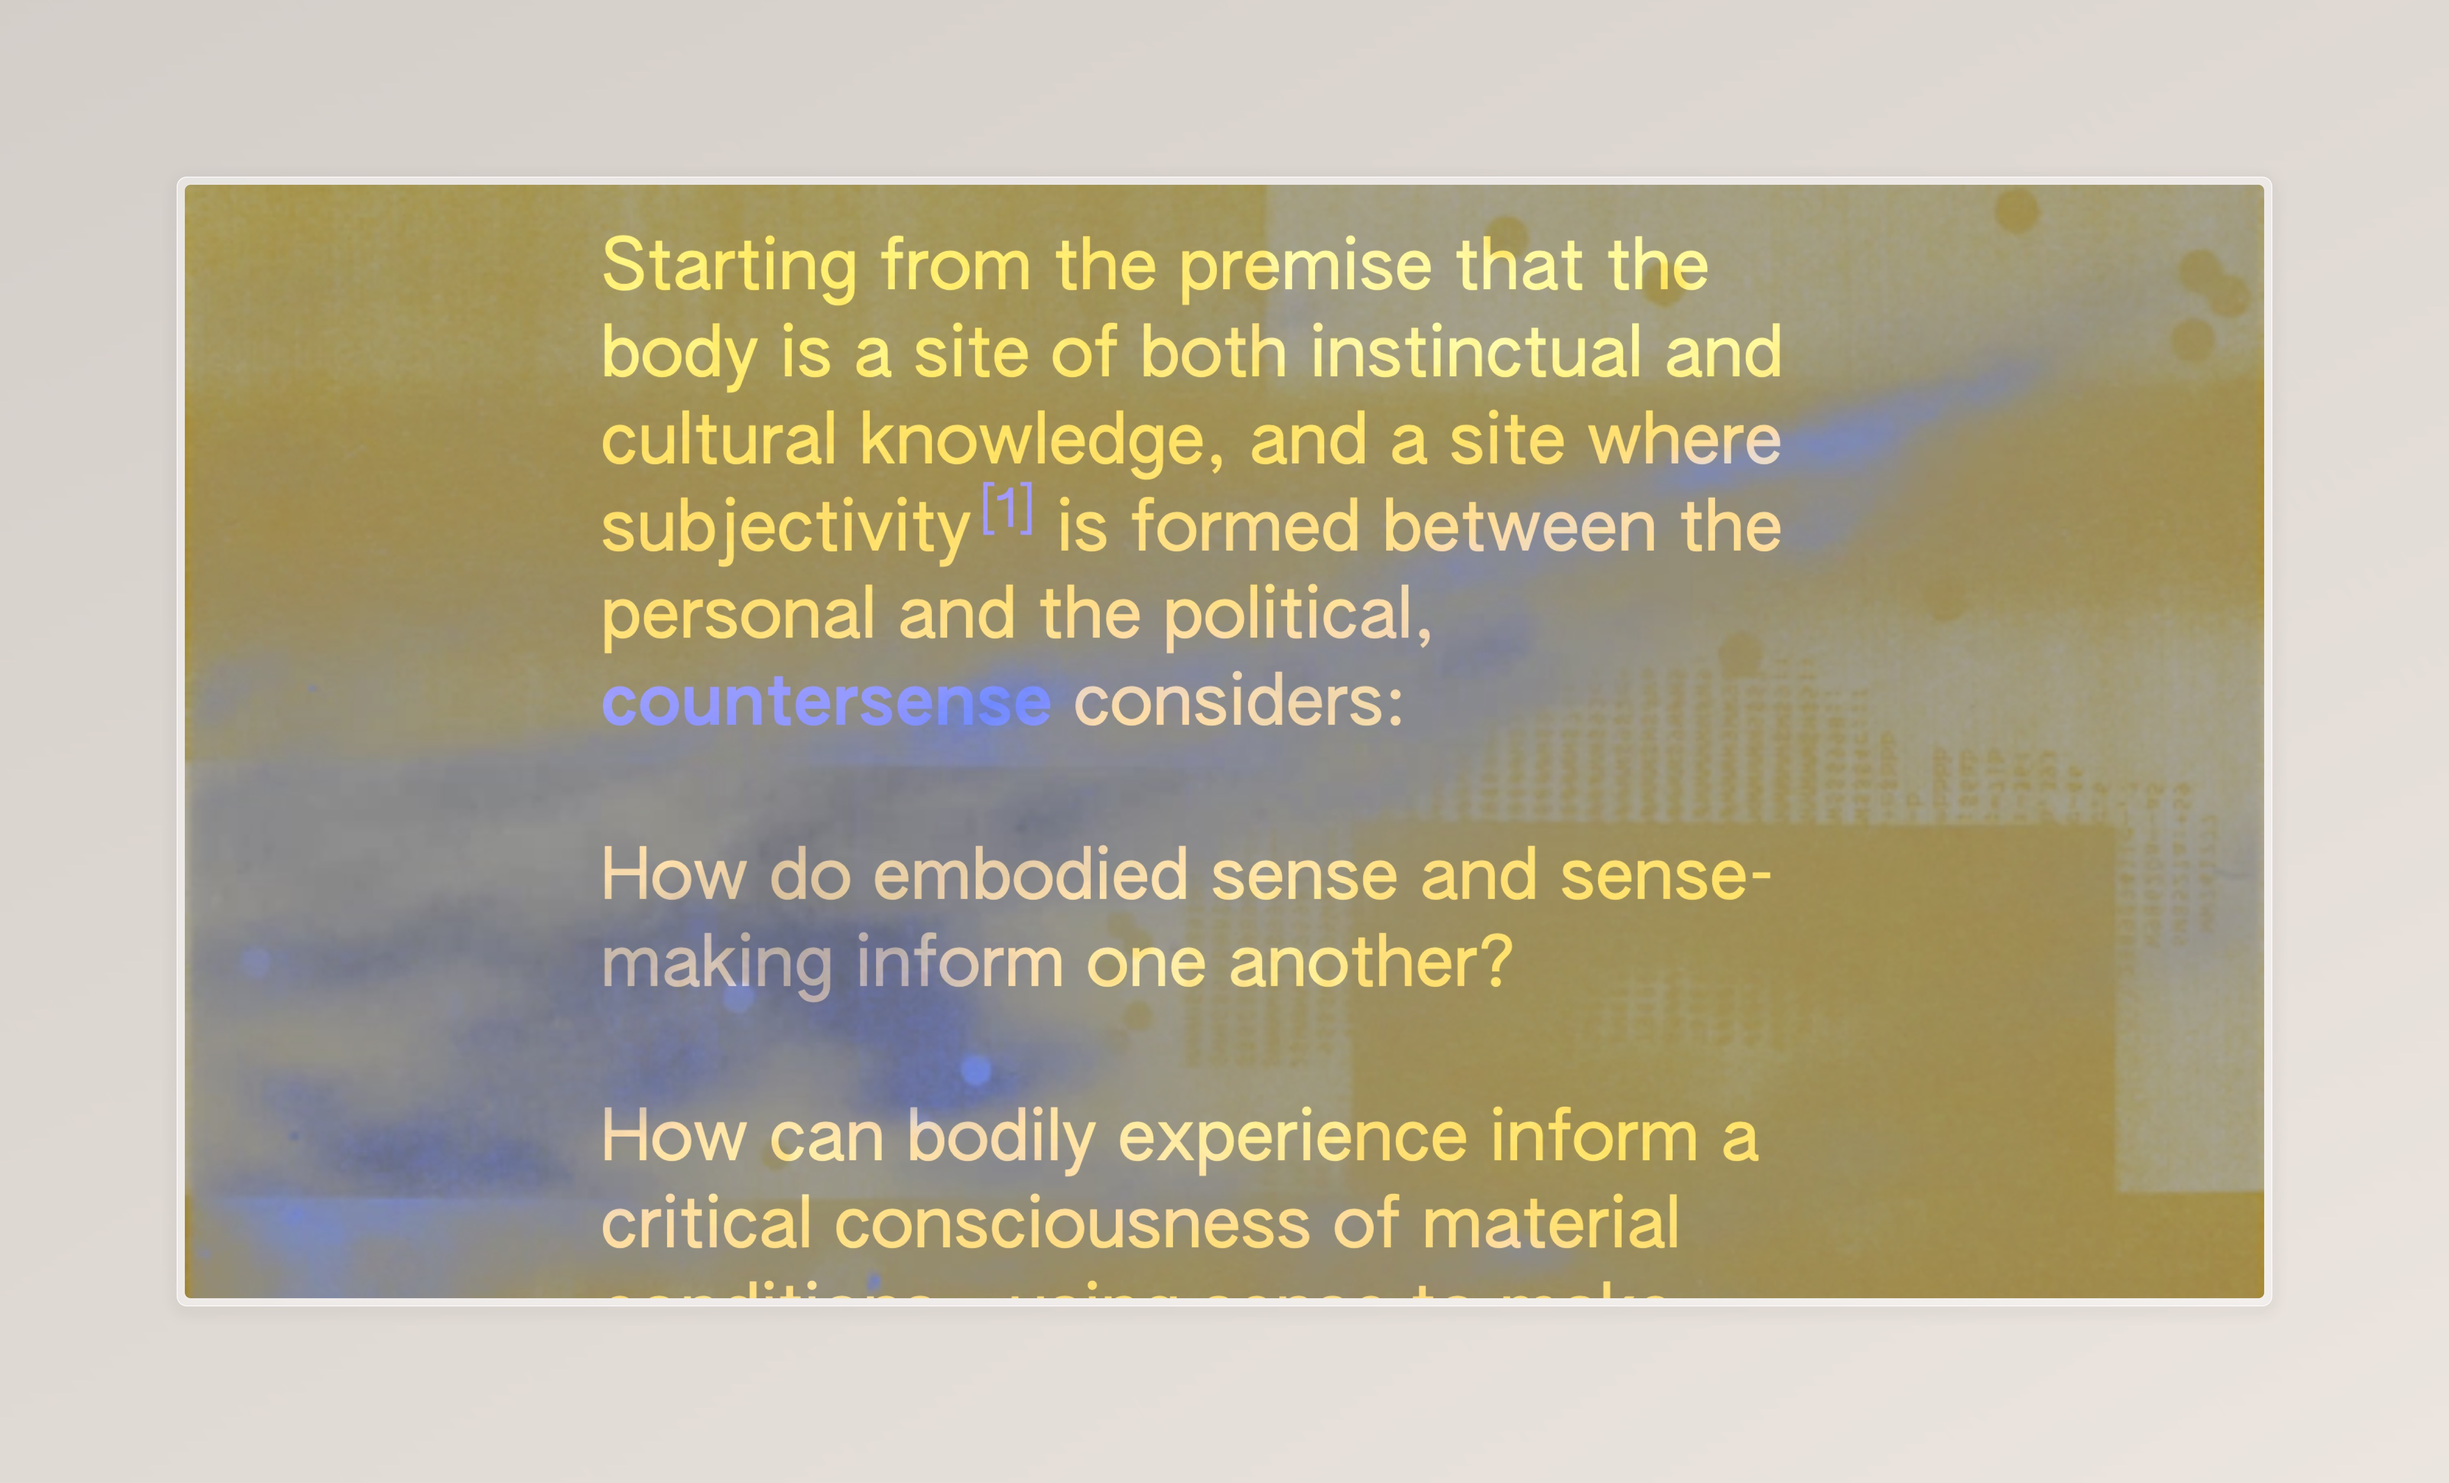
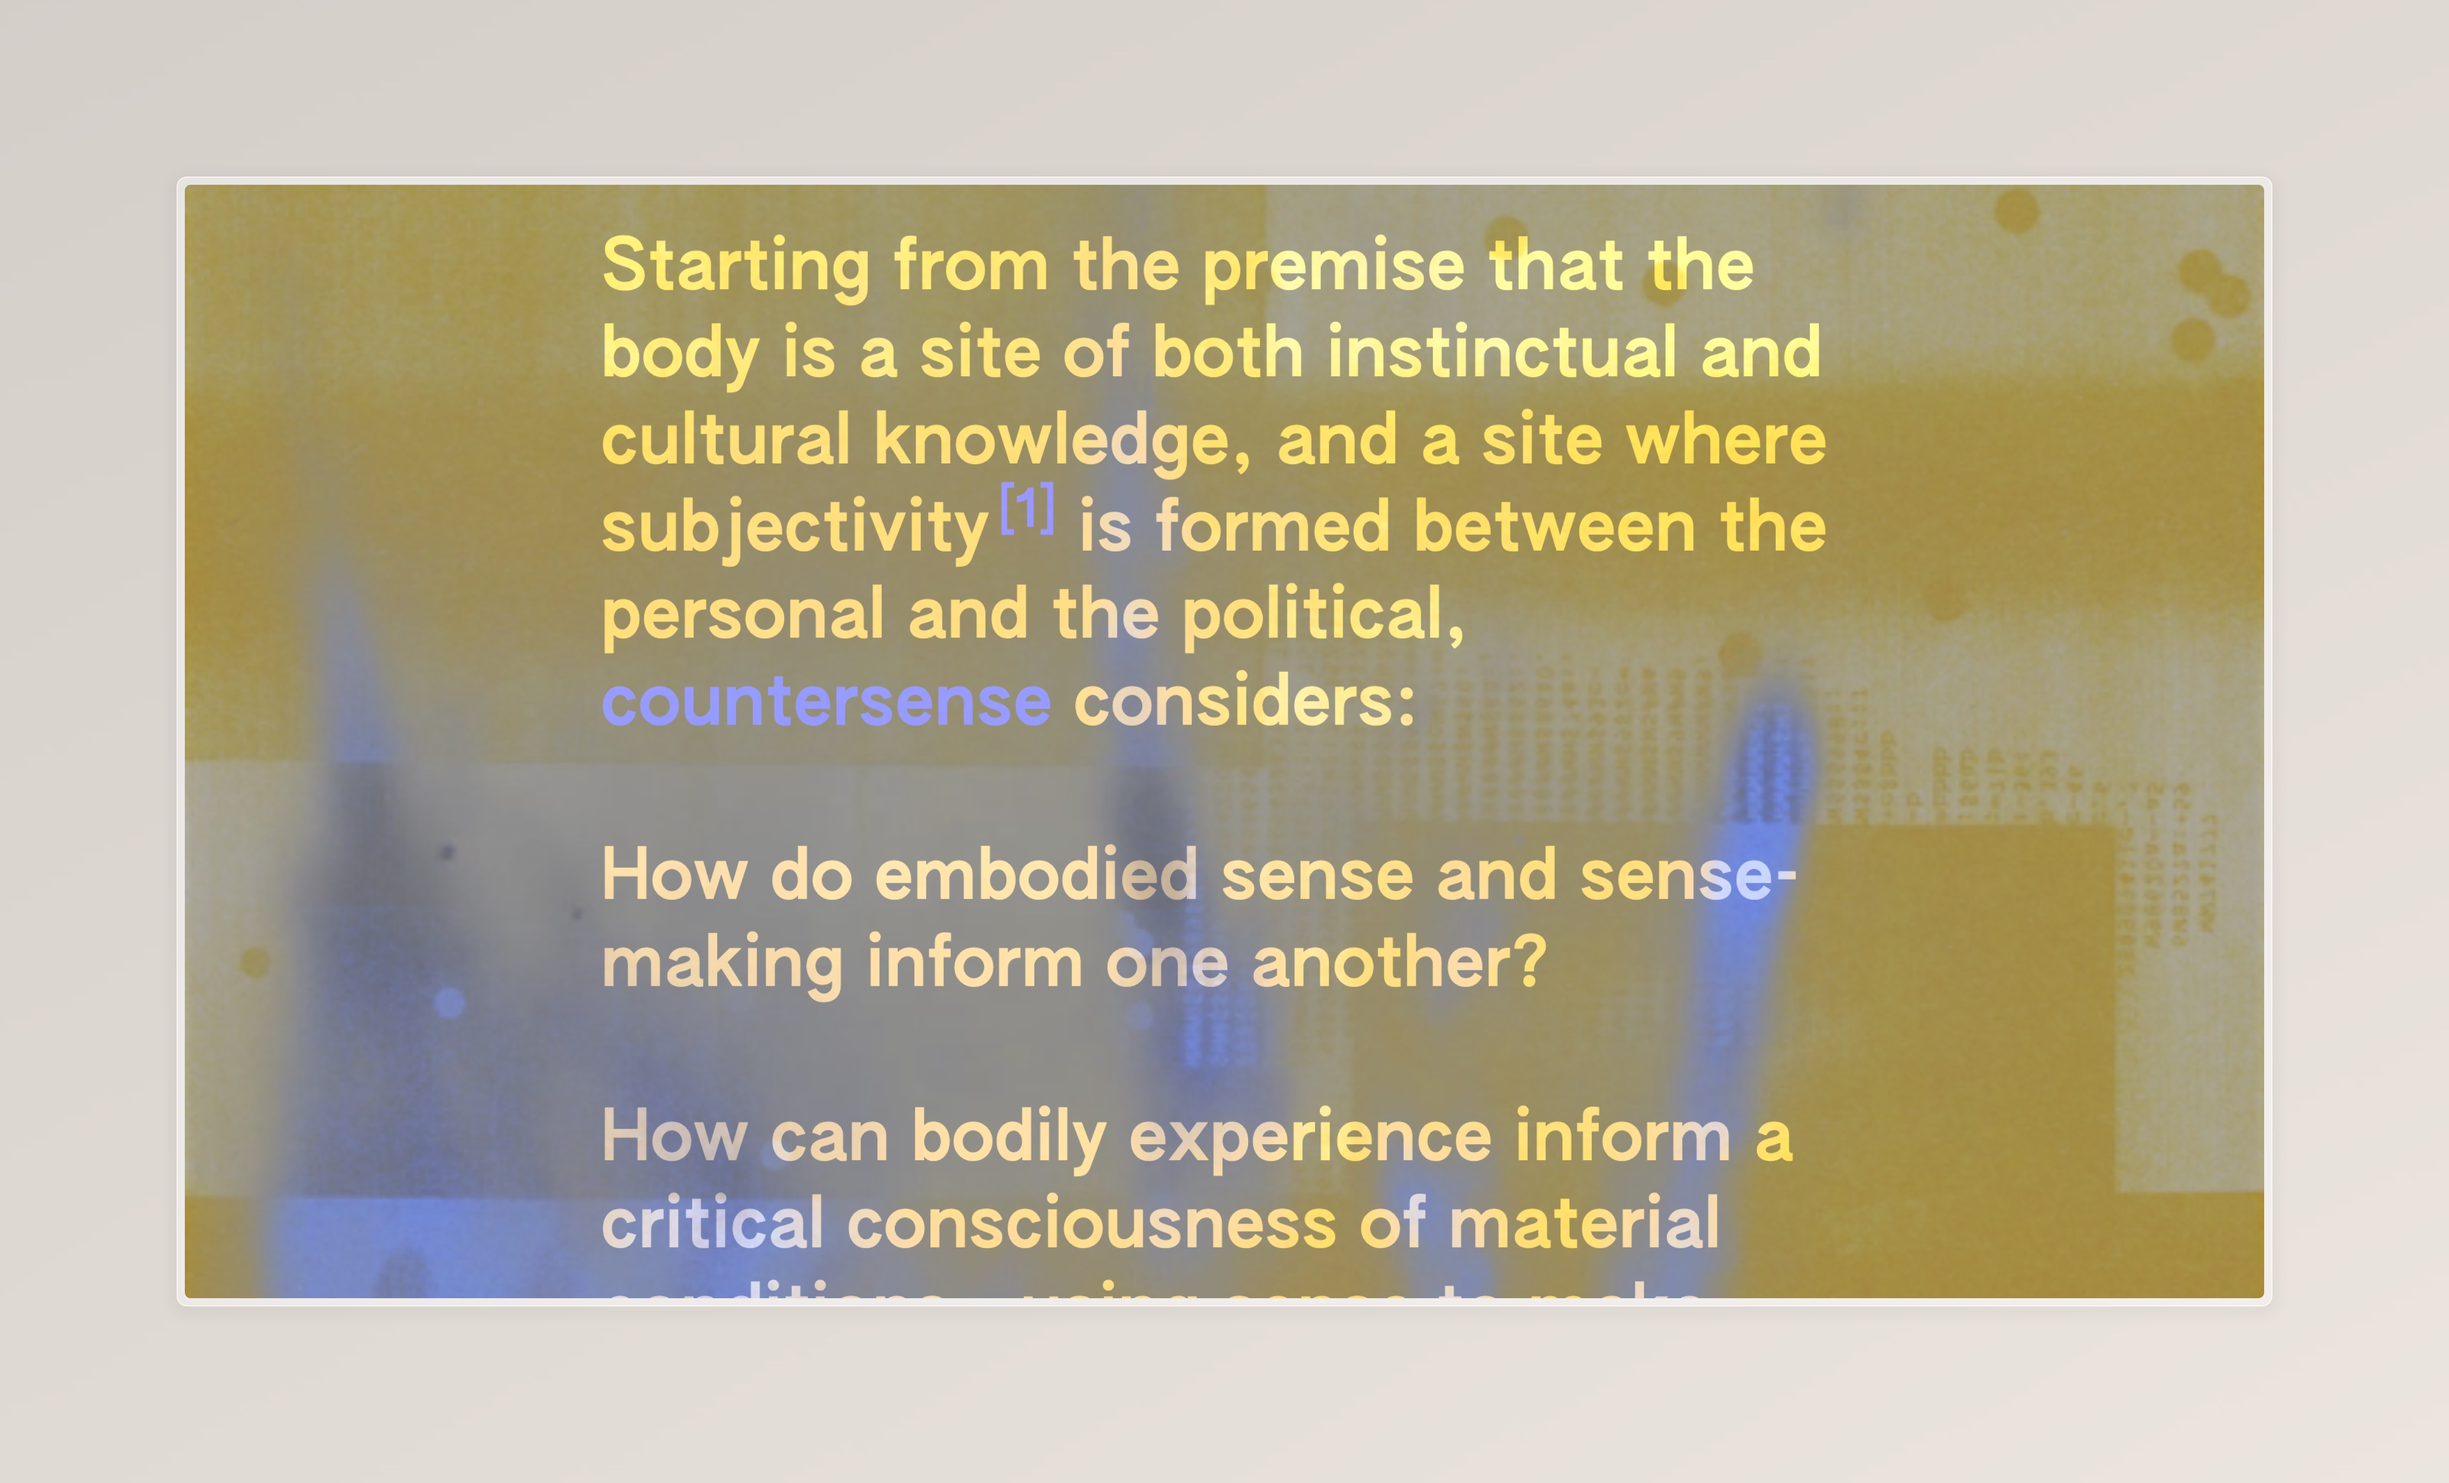
ok

diff --git a/countersense.html b/countersense.html
@@ -43,6 +43,7 @@
             <img src="./resources/portfolio page images/closeup cover.png">
             <img src="./resources/portfolio page images/binding.png">
             <img src="./resources/portfolio page images/countersense.world.jpeg">
+            <img src="./resources/portfolio page images/countersense bibliography.jpeg">
             <img src="./resources/portfolio page images/countersense-presentation.png">
             <img src="./resources/portfolio page images/countersense presentation.png">
         </div>
@@ -88,6 +89,7 @@
             <img src="./resources/portfolio page images/closeup cover.png">
             <img src="./resources/portfolio page images/binding.png">
             <img src="./resources/portfolio page images/countersense.world.jpeg">
+            <img src="./resources/portfolio page images/countersense bibliography.jpeg">
             <img src="./resources/portfolio page images/countersense-presentation.png">
             <img src="./resources/portfolio page images/countersense presentation.png">
         </div>
